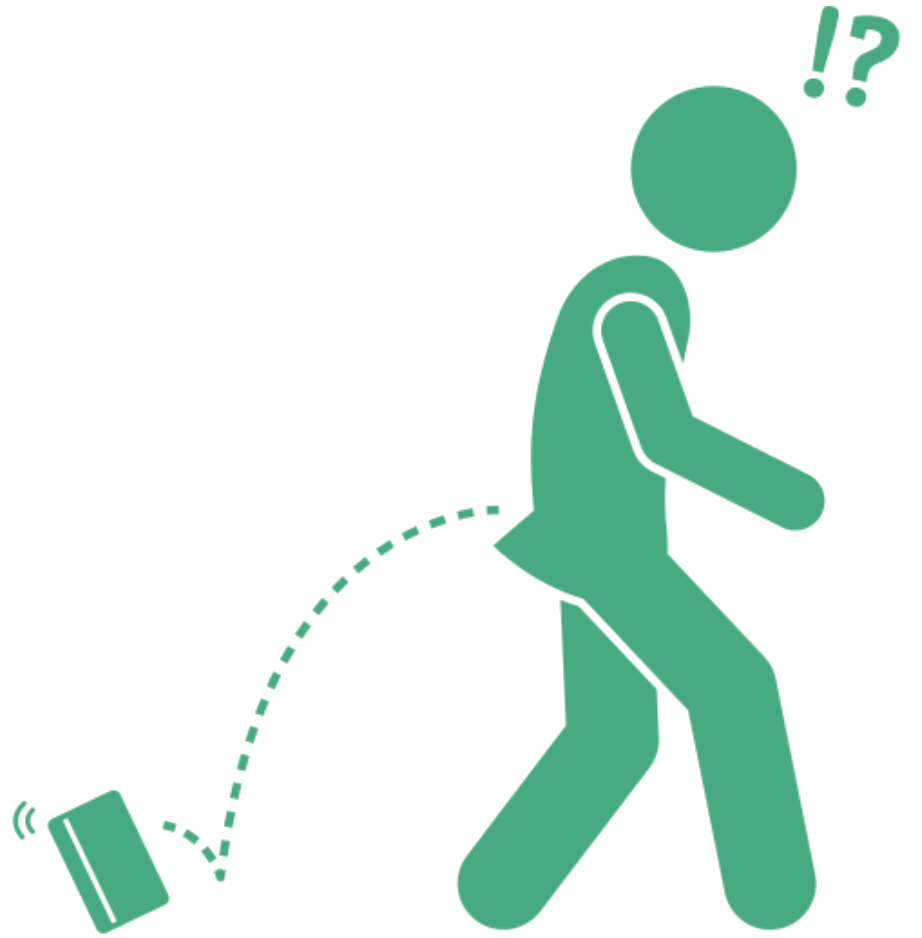
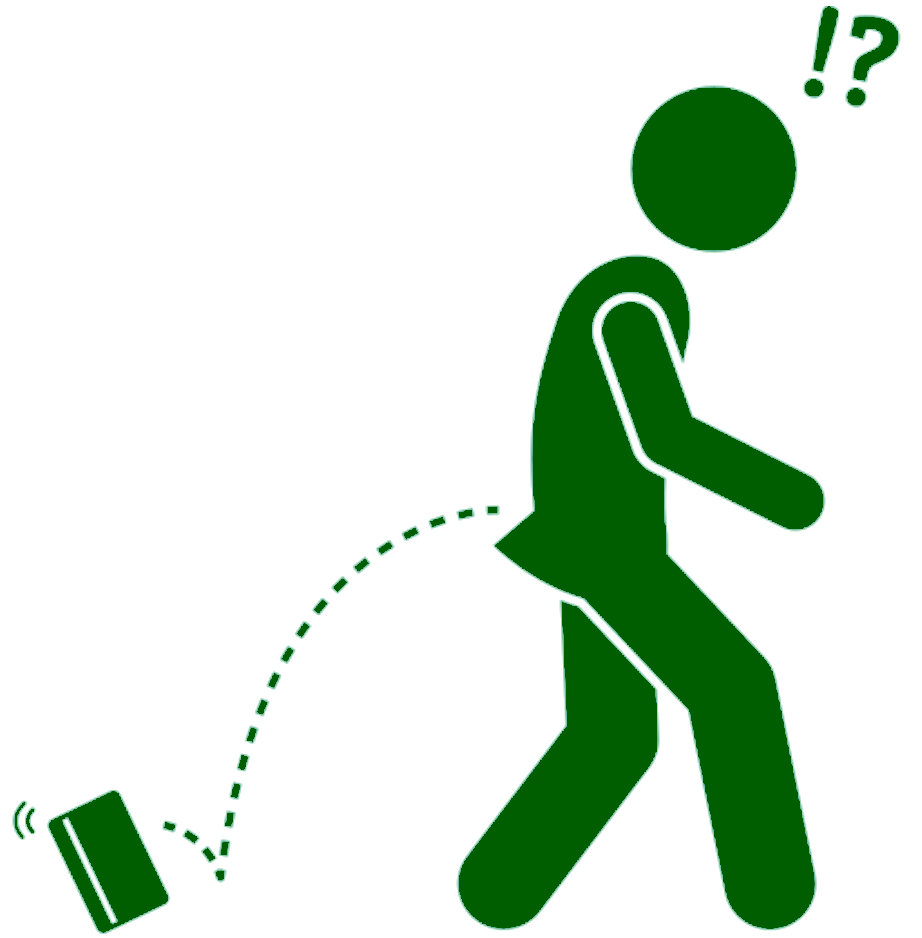
colores refinados

diff --git a/src/views/trayecto.py b/src/views/trayecto.py
@@ -175,7 +175,6 @@ def get_trayecto_view(page: ft.Page) -> ft.View:
             + "&mode=" + page.client_storage.get("transporte")
             + "&arriveBy=false&wheelchair=false&showIntermediateStops=true&locale=en"
     )
-    url = "https://otp.danielcuesta.es/otp/routers/default/plan?fromPlace=40.450735382579694%2C-3.6938953399658208&toPlace=40.4281%2C-3.70213&time=10%3A40am&date=05-16-2025&mode=BUS%2CWALK&arriveBy=false&wheelchair=false&showIntermediateStops=true&locale=en"
     def finish_trayecto(e):
         page.views.append(fin_trayecto.get_fin_trayecto_view(page))
         page.client_storage.set("transporte", "")

diff --git a/src/views/elegir_transporte.py b/src/views/elegir_transporte.py
@@ -56,7 +56,7 @@ def get_elegir_transporte_view(page: ft.Page) -> ft.View:
                 page.views.append(trayecto.get_trayecto_view(page))
                 page.go("/trayecto")
             except Exception as e:
-                error_message.value = "Hubo un error al ir a la pantalla de trayecto. Inténtalo de nuevo."
+                error_message.value = "Parece que no encontramos un trayecto con este tipo de transporte. Prueba otro o cancela la opción."
                 error_message.visible = True
                 print(e)
                 page.update()
